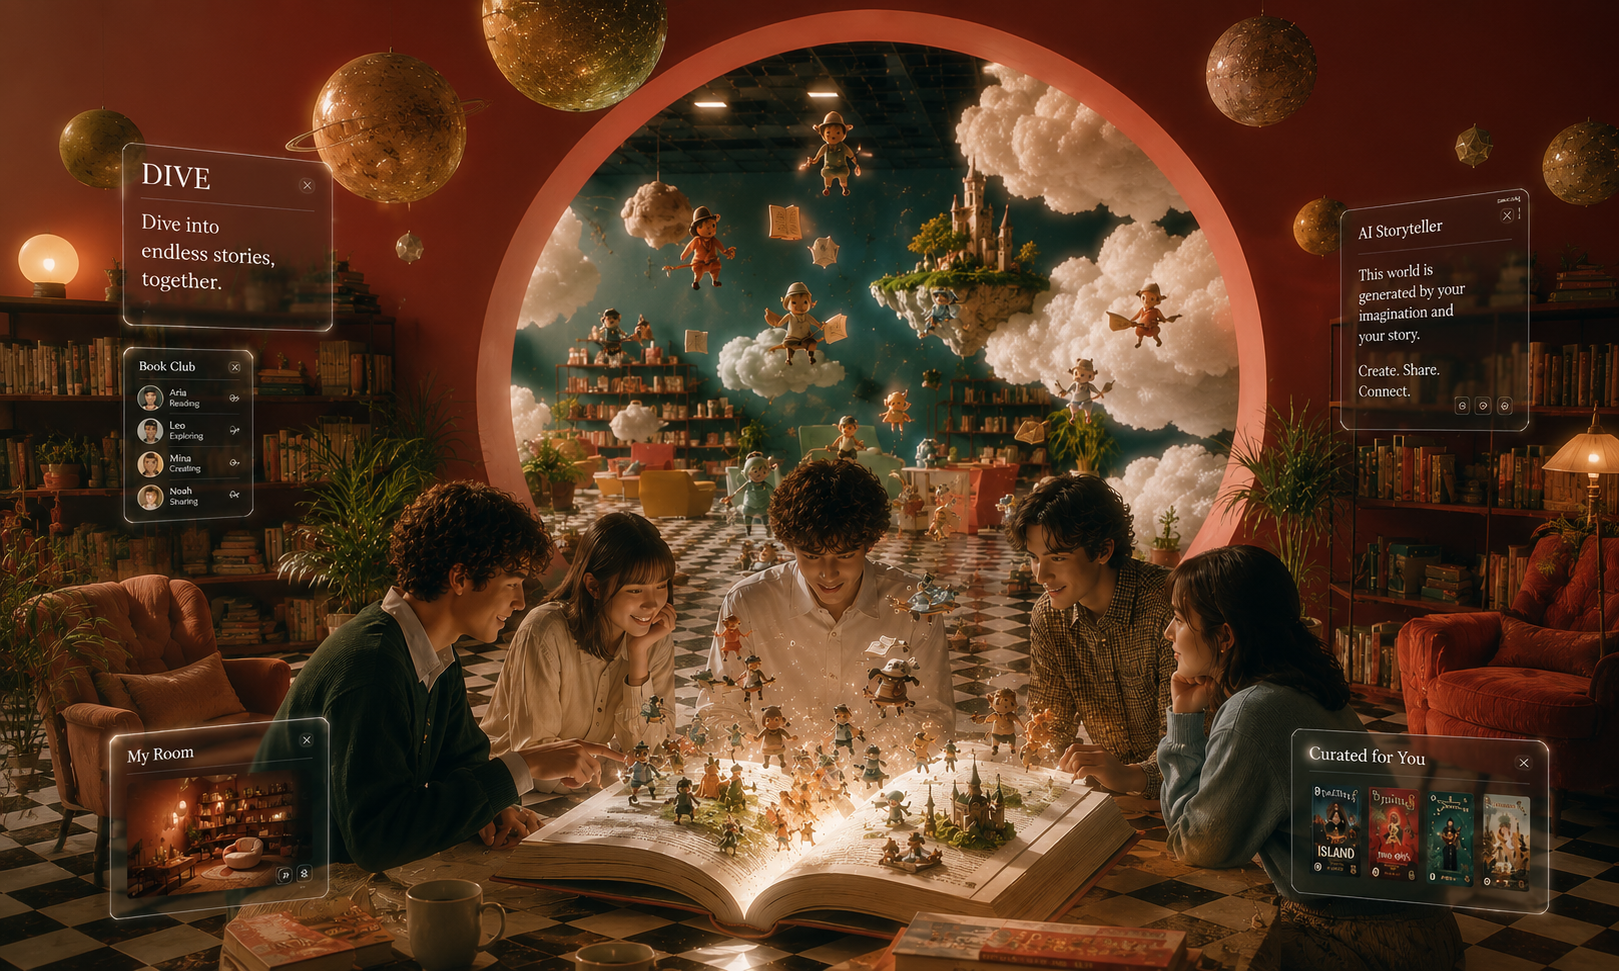
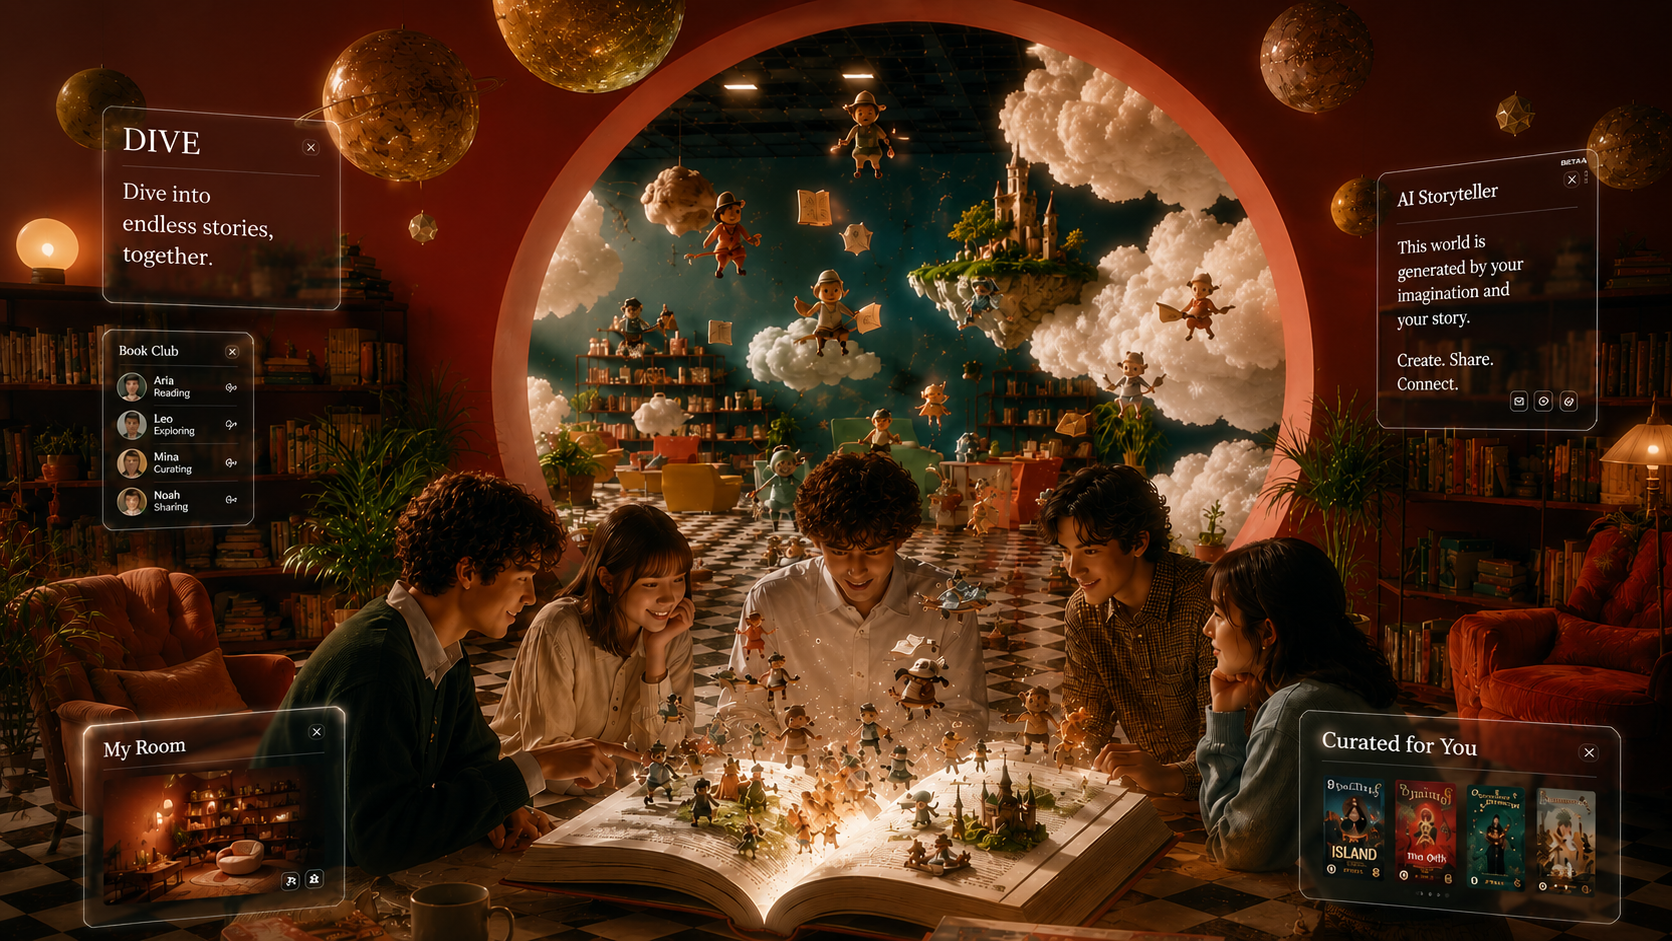
Use newly uploaded 16:9 thumbnails with sharpness hint

diff --git a/index.html b/index.html
@@ -1503,7 +1503,7 @@
                                     <div class="inline-flex items-center gap-1.5 px-2.5 py-1.5 rounded-full bg-black/50 backdrop-blur-md border border-white/20 text-[11px] leading-none font-medium text-white shadow-sm">SK Telecom</div>
                                     <div class="inline-flex items-center gap-1.5 px-2.5 py-1.5 rounded-full bg-black/50 backdrop-blur-md border border-white/20 text-[11px] leading-none font-medium text-white shadow-sm">UX Korea</div>
                                 </div>
-                                <img src="nahyun_imported/image_source/Projects_Products/thumnail_DIVE_web.png" alt="DIVE" class="w-full h-full object-cover object-center">
+                                <img src="nahyun_imported/image_source/Projects_Products/thumnail_DIVE.png" alt="DIVE" class="w-full h-full object-cover object-center" style="image-rendering: -webkit-optimize-contrast;">
                             </div>
                             <p class="font-sans text-[12.5px] md:text-[13px] text-zinc-500 mb-1.5 uppercase tracking-wider font-medium">DIVE</p>
                             <h3 style="font-family: 'Inter', sans-serif;" class="text-[20px] md:text-[22px] font-normal text-zinc-900 tracking-tight leading-[1.3] mb-2.5">Metaverse Reading Culture Platform</h3>
@@ -1612,7 +1612,7 @@
                             <div class="grid grid-cols-[84px_1fr] sm:grid-cols-[96px_1fr] md:grid-cols-[120px_1fr] gap-5 items-start">
                                 <div class="relative w-full aspect-square shrink-0 border border-zinc-200 shadow-sm overflow-hidden bg-gradient-to-br from-[#f3f4f6] via-[#f9fafb] to-white">
                                     <div class="absolute top-2 left-2 inline-flex items-center gap-1 px-1.5 py-0.5 rounded-full bg-zinc-900/80 backdrop-blur-md border border-white/10 text-[9px] leading-none font-semibold text-white z-10 shadow-[0_4px_14px_rgba(0,0,0,0.12)]">SSCI</div>
-                                    <img src="nahyun_imported/image_source/Projects_Products/thumnail_news_web.png" alt="AI Trust Signaling Research" class="w-full h-full object-cover object-center p-0">
+                                    <img src="nahyun_imported/image_source/Projects_Products/thumnail_news.png" alt="AI Trust Signaling Research" class="w-full h-full object-cover object-center p-0" style="image-rendering: -webkit-optimize-contrast;">
                                 </div>
                                 <div class="flex flex-col">
                                     <p class="font-sans text-[12px] md:text-[13px] text-zinc-500 mb-1 uppercase tracking-wider font-medium">Technology in Society</p>
